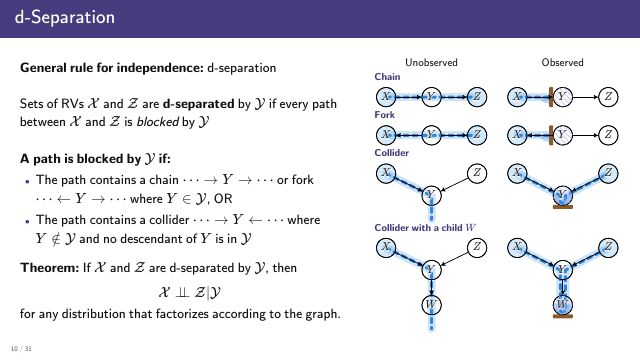
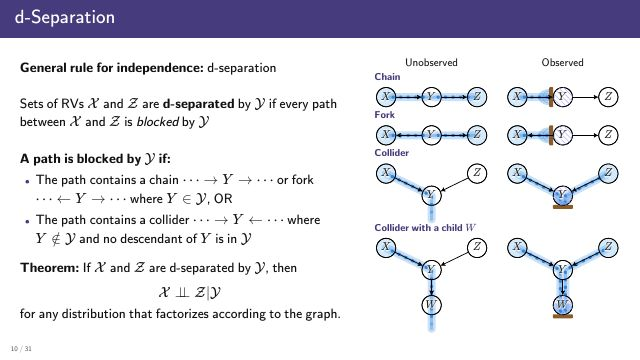
EPL slides: graphical models deck, slide 10's water animation as a timed story

diff --git a/docs/teaching/epl/slides/40-1-graphical-models/figs.js b/docs/teaching/epl/slides/40-1-graphical-models/figs.js
@@ -167,21 +167,93 @@ FIGS.traffic = trafficFig(K * 0.7, 2, 1.22, 'left');
 FIGS.traffic8 = trafficFig(K * 0.6, 2.5, 1.4, 'below');
 
 // Slide 10: information as water on the three structures and on a collider with a child W, the
-// node in question unobserved (left) and observed (right).  The water runs from X along the path,
-// through the nodes and under the edges, as dashes that the CSS class "flow" moves (print keeps them
-// still).  An observed chain or fork node is a dam; at a collider the water pours out through an
-// unobserved Y (and its unobserved child), and pools in an observed Y or an observed child, whose dam
-// at its bottom sends it back up to Z.  Z turns blue when the water reaches it.
+// node in question unobserved (left) and observed (right).  A timed story plays in all eight panels
+// at once: a stream leaves X with droplets riding in it, at speed V.  An observed chain or fork node
+// is a dam: the stream stops at its wall and piles up there, rippling.  At a collider the stream
+// pours out through an unobserved Y (and its unobserved child), its droplets fading as they fall;
+// an observed Y or an observed child, with a dam at its bottom, fills with water and sends the
+// stream back up to Z.  Z fills when the stream reaches it.  The scene holds, fades and starts
+// again, from the beginning each time the slide is entered.  Print shows the completed state.
 {
   const s = K * 0.52, d = 0.74, gap = 1.75, low = 0.85, kid = 1.35, r = d * s / 2, drop = 28;
   const WATER = '#2E86DE', WET = '#D4E9FA', DAM = '#8B5A2B';
+  const V = 115, GD = 15, DR = 3.2, POOL = 0.7, HOLD = 1.6, FADE = 0.6, RIP = 0.75;
   const PW = 2 * gap * s + d * s + 8, CG = 34, HH = 30, RL = 26, RG = 8;
   const RH = [RL + 2 * r + 4, RL + 2 * r + 4, RL + low * s + 2 * r + drop + 4, RL + (low + kid) * s + 2 * r + drop + 4];
   const W = 2 * PW + CG, H = HH + RH.reduce((a, b) => a + b) + 3 * RG;
   const kinds = [['Chain', [['X', 'Y'], ['Y', 'Z']]], ['Fork', [['Y', 'X'], ['Y', 'Z']]],
     ['Collider', [['X', 'Y'], ['Z', 'Y']]], ['Collider with a child $W$', [['X', 'Y'], ['Z', 'Y'], ['Y', 'W']]]];
   const txt = (h, size) => `<span style="font-size:${size}px">${h}</span>`;
+  const clamp01 = u => Math.max(0, Math.min(1, u));
+  // a polyline's cumulative lengths, and its point at arc length u
+  const cumOf = pts => pts.reduce((c, q, i) => (c.push(i ? c[i - 1] + Math.hypot(q[0] - pts[i - 1][0], q[1] - pts[i - 1][1]) : 0), c), []);
+  const at = (pts, cum, u) => {
+    let i = 1;
+    while (i < pts.length - 1 && cum[i] < u) i++;
+    const f = (u - cum[i - 1]) / ((cum[i] - cum[i - 1]) || 1);
+    return [pts[i - 1][0] + f * (pts[i][0] - pts[i - 1][0]), pts[i - 1][1] + f * (pts[i][1] - pts[i - 1][1])];
+  };
+  // the stream's head: V per second, waiting POOL seconds where a pool fills
+  const frontAt = (a, t) => {
+    const u = V * t;
+    if (a.pauseAt == null || u < a.pauseAt) return Math.min(u, a.L);
+    return Math.min(Math.max(a.pauseAt, u - V * POOL), a.L);
+  };
+  const tEnd = a => (a.L + (a.pauseAt == null ? 0 : V * POOL)) / V;
+  let T = 0;   // one cycle, set by the slowest panel
+  const segPath = (cx, cy, lv) => {   // the part of a node's disc below the level lv
+    const dy = Math.max(-r, Math.min(r, lv - cy)), dx = Math.sqrt(Math.max(0, r * r - dy * dy));
+    if (dx < 0.5) return 'M0,0';
+    return `M${(cx - dx).toFixed(1)},${lv.toFixed(1)}A${r},${r} 0 ${dy < 0 ? 1 : 0} 0 ${(cx + dx).toFixed(1)},${lv.toFixed(1)}Z`;
+  };
+  function update(panels, t) {
+    const op = t > T - FADE ? clamp01((T - t) / FADE) : 1;
+    for (const a of panels) {
+      const front = frontAt(a, t);
+      a.body.setAttribute('stroke-dasharray', `${front.toFixed(1)} ${a.L + 60}`);
+      a.body.setAttribute('stroke-opacity', 0.25 * op);
+      a.core.setAttribute('stroke-dasharray', `${front.toFixed(1)} ${a.L + 60}`);
+      a.core.setAttribute('stroke-opacity', 0.35 * op);
+      const phase = (V * t) % GD;
+      a.drops.forEach((e, j) => {
+        const u = phase + j * GD;
+        let o = u <= front - 2 ? op : 0;
+        if (o && a.outlet != null && u > a.outlet) o *= clamp01(1 - (u - a.outlet) / (a.L - a.outlet));
+        if (o) { const [px, py] = at(a.pts, a.cum, u); e.setAttribute('cx', px.toFixed(1)); e.setAttribute('cy', py.toFixed(1)); }
+        e.setAttribute('opacity', o.toFixed(2));
+      });
+      if (a.zwet) a.zwet.setAttribute('opacity', (clamp01((front - (a.L - r)) / r) * op).toFixed(2));
+      if (a.npool) {   // the observed node fills from its bottom to just above its middle
+        const f = clamp01((t - a.pauseAt / V) / POOL);
+        a.npool.setAttribute('d', segPath(a.bot[0], a.bot[1], a.bot[1] + r - f * 1.15 * r));
+        a.npool.setAttribute('fill-opacity', 0.35 * op);
+      }
+      if (a.dpool) {   // water piling up against the dam, with ripples off the wall
+        const ta = a.L / V, f = clamp01((t - ta) / 0.8), [wx, wy] = a.wall;
+        a.dpool.setAttribute('d', f > 0.02 ? `M${wx},${wy - 16 * f}A${22 * f},${16 * f} 0 0 0 ${wx},${wy + 16 * f}Z` : 'M0,0');
+        a.dpool.setAttribute('fill-opacity', 0.3 * op);
+        const q = t > ta ? ((t - ta) % RIP) / RIP : -1;
+        a.ripple.setAttribute('r', q < 0 ? 0 : (3 + 15 * q).toFixed(1));
+        a.ripple.setAttribute('opacity', q < 0 ? 0 : ((1 - q) * 0.7 * op).toFixed(2));
+      }
+    }
+  }
+  function run(root) {
+    if (root._flowRun) return;
+    root._flowRun = true;
+    let t0 = 0, was = false;
+    const tick = now => {
+      if (!root.isConnected) { root._flowRun = false; return; }
+      const on = !!root.closest('section.present');
+      if (on && !was) t0 = now;
+      was = on;
+      if (on && root._flow) update(root._flow, ((now - t0) / 1000) % T);
+      requestAnimationFrame(tick);
+    };
+    requestAnimationFrame(tick);
+  }
   FIGS.flow = { size: [Math.ceil(W), Math.ceil(H)], draw(g) {
+    const panels = [];
     let top = HH;
     ['Unobserved', 'Observed'].forEach((h, col) =>
       g.label(`wh${col}`, txt(h, 22), [col * (PW + CG) + PW / 2, HH - 6], 'b'));
@@ -192,7 +264,7 @@ FIGS.traffic8 = trafficFig(K * 0.6, 2.5, 1.4, 'below');
         const key = `w${row}${col}`, wet = !obs !== v;
         const nodes = { X: { at: [0, 0], tex: '$X$', d, fill: WET },
           Y: { at: [gap, v ? -low : 0], tex: '$Y$', d, hatch: obs && !child ? XC.b30 : null },
-          Z: { at: [2 * gap, 0], tex: '$Z$', d, fill: wet ? WET : '#fff' } };
+          Z: { at: [2 * gap, 0], tex: '$Z$', d } };
         if (child) nodes.W = { at: [gap, -low - kid], tex: '$W$', d, hatch: obs ? XC.b30 : null };
         // two passes: the nodes' fills first, then the water over them, then the edges, outlines and
         // hatching over the water, so the water is seen to run through a node
@@ -204,20 +276,24 @@ FIGS.traffic8 = trafficFig(K * 0.6, 2.5, 1.4, 'below');
         const [x, y, z] = ['X', 'Y', 'Z'].map(k => P(nodes[k].at));
         const below = q => [q[0], q[1] + r + drop];
         const bot = v && (child ? P(nodes.W.at) : y);   // a collider's bottom node: Y, or its child W
-        let pts;
-        if (!v) pts = obs ? [x, [y[0] - r - 10, y[1]]] : [x, y, z];
-        else if (obs) {     // down to the dam at the bottom of the observed node and back up to Z
-          const foot = bot[1] + r - 6;
-          pts = [x, [y[0] - 5, y[1]], [bot[0] - 5, foot], [bot[0] + 5, foot], [y[0] + 5, y[1]], z];
-          const lv = bot[1] - 0.15 * r, dx = Math.sqrt(r * r - (lv - bot[1]) ** 2);
-          g.el('path', { d: `M${bot[0] - dx},${lv}A${r},${r} 0 1 0 ${bot[0] + dx},${lv}Z`, fill: WATER, 'fill-opacity': 0.35, stroke: 'none' });
-        } else pts = child ? [x, y, bot, below(bot)] : [x, y, below(y)];
-        const wj = { stroke: WATER, 'stroke-linecap': 'round', 'stroke-linejoin': 'round' };
-        g.path(pts, { ...wj, 'stroke-width': 16, 'stroke-opacity': 0.22 });
-        g.path(pts, { ...wj, cls: 'flow', 'stroke-width': 6 });
-        if (!v && obs) {   // the dam, and the water standing against it
+        const a = { bot };
+        if (!v) a.pts = obs ? [x, [y[0] - r - 10, y[1]]] : [x, y, z];
+        else if (obs) a.pts = [x, [y[0] - 5, y[1]], [bot[0] - 5, bot[1] + r - 6], [bot[0] + 5, bot[1] + r - 6], [y[0] + 5, y[1]], z];
+        else a.pts = child ? [x, y, bot, below(bot)] : [x, y, below(y)];
+        a.cum = cumOf(a.pts); a.L = a.cum[a.cum.length - 1];
+        if (v && obs) a.pauseAt = a.cum[2];
+        if (v && !obs) a.outlet = a.cum[a.cum.length - 2] + r;
+        if (wet) a.zwet = g.el('circle', { cx: z[0], cy: z[1], r: r - 1, fill: WET, opacity: 0 });
+        if (v && obs) a.npool = g.el('path', { d: 'M0,0', fill: WATER, 'fill-opacity': 0, stroke: 'none' });
+        const wj = { stroke: WATER, 'stroke-linecap': 'round', 'stroke-linejoin': 'round', 'stroke-dasharray': `0 ${a.L + 60}` };
+        a.body = g.path(a.pts, { ...wj, 'stroke-width': 16, 'stroke-opacity': 0 });
+        a.core = g.path(a.pts, { ...wj, 'stroke-width': 6, 'stroke-opacity': 0 });
+        a.drops = Array.from({ length: Math.ceil(a.L / GD) + 1 }, () => g.el('circle', { cx: x[0], cy: x[1], r: DR, fill: WATER, opacity: 0 }));
+        if (!v && obs) {   // the dam, the water piling up against it, and its ripple
           const wx = y[0] - r - 7;
-          g.el('path', { d: `M${wx - 20},${y[1]}a20,13 0 0 0 20,13v-13z`, fill: WATER, 'fill-opacity': 0.3, stroke: 'none' });
+          a.wall = [wx - 1, y[1]];
+          a.dpool = g.el('path', { d: 'M0,0', fill: WATER, 'fill-opacity': 0, stroke: 'none' });
+          a.ripple = g.el('circle', { cx: wx - 2, cy: y[1], r: 0, fill: 'none', stroke: WATER, 'stroke-width': 1.5, opacity: 0 });
           g.el('rect', { x: wx - 1, y: y[1] - 20, width: 8, height: 40, rx: 2, fill: DAM });
         }
         if (v && obs) g.el('rect', { x: bot[0] - 20, y: bot[1] + r - 1, width: 40, height: 8, rx: 2, fill: DAM });
@@ -226,9 +302,14 @@ FIGS.traffic8 = trafficFig(K * 0.6, 2.5, 1.4, 'below');
           const [cx, cy] = P(nodes[k].at);
           g.el('path', { d: hatchD(cx, cy, r, 7.5), stroke: nodes[k].hatch, 'stroke-width': 1, fill: 'none' });
         }
+        panels.push(a);
       });
       top += RH[row] + RG;
     });
+    T = Math.max(...panels.map(tEnd)) + HOLD + FADE;
+    g.root._flow = panels;
+    if (PRINT) update(panels, T - FADE - 0.05);
+    else { update(panels, 0); run(g.root); }
   } };
 }
 

diff --git a/docs/teaching/epl/slides/40-1-graphical-models/index.html b/docs/teaching/epl/slides/40-1-graphical-models/index.html
@@ -54,10 +54,6 @@ table.wxm th, table.wxm td { padding: 3px 15px; text-align: center; font-weight:
 table.wxm th { border-right: 1.2px solid #000; }
 table.wxm tr:first-child > * { border-bottom: 1.2px solid #000; }
 table.wxm .me { font-size: 0.95em; line-height: 1; text-shadow: none; }
-/* slide 10: the water's dashes run along their path; print keeps them still */
-.flow { stroke-dasharray: 8 10; animation: flow .6s linear infinite; }
-@keyframes flow { to { stroke-dashoffset: -18; } }
-.print-pdf .flow { animation: none; }
 .fig[data-fig="flow"] .lab .nd { text-shadow: 0 0 3px #fff, 0 0 3px #fff, 0 0 2px #fff; }
 /* slide 29: the simulation's sliders centred under its pictures */
 section.sim .knobs { justify-content: center; margin: 2px 0 8px; }
